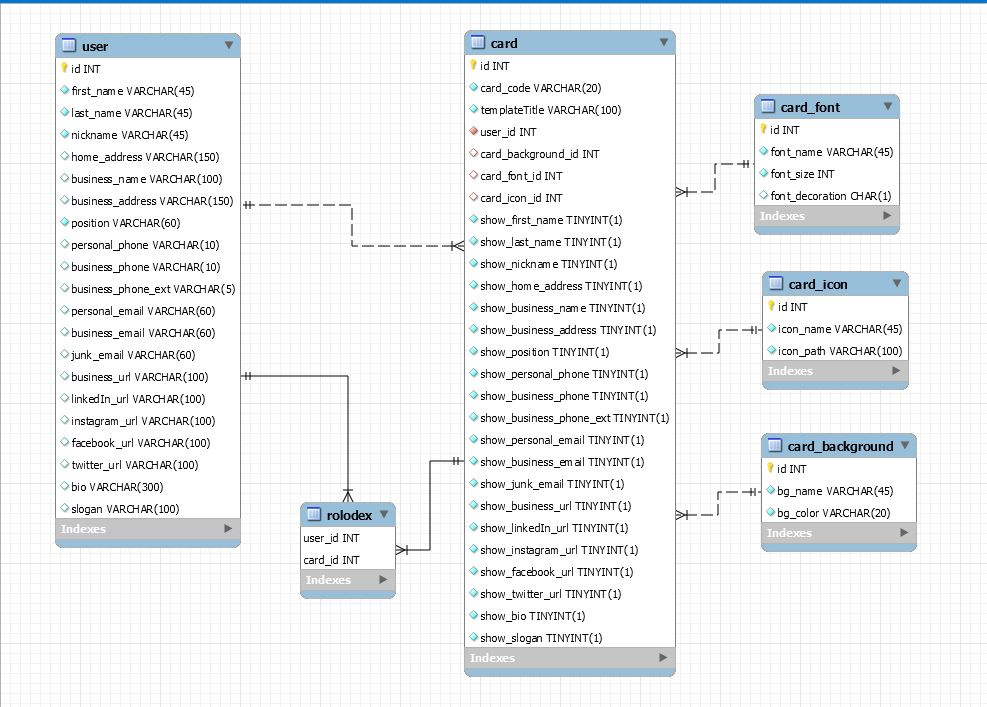
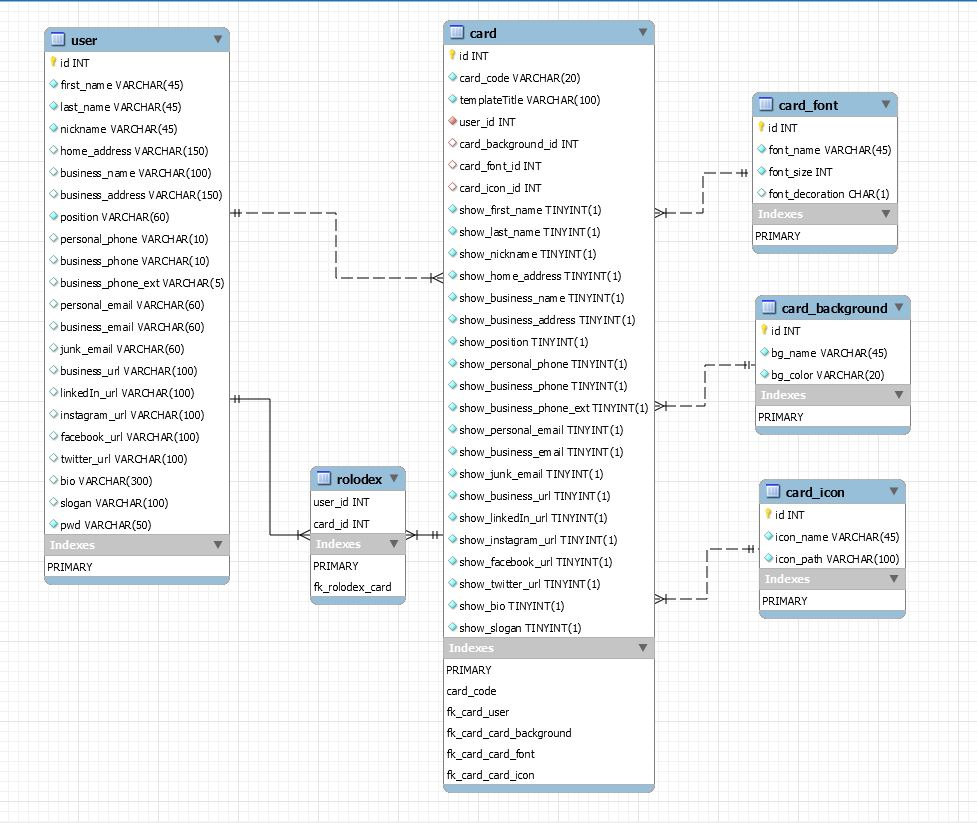
Iinitial setup for USER model and APIs. The first get route for users is done. Changed some NOT NULL constraints in the schema for user table and added pwd column to user table.

Changed region(s): [[0.0, 0.0, 1.0, 0.9646], [0.3378, 0.2801, 0.3685, 0.3423]]

diff --git a/models/User.js b/models/User.js
@@ -1,0 +1,132 @@
+const { Model, DataTypes } = require('sequelize');
+const sequelize = require('../config/connection');
+const bcrypt = require('bcrypt');
+
+// create our User model
+class User extends Model {
+  checkPassword(loginPw) {
+    return bcrypt.compareSync(loginPw, this.password);
+  }
+}
+
+// define table columns and configuration
+User.init(
+  {
+    id: {
+        type: DataTypes.INTEGER,
+        allowNull: false,
+        primaryKey: true,
+        autoIncrement: true
+    },
+    first_name: {
+        type: DataTypes.STRING,
+        allowNull: false
+    },
+    last_name: {
+        type: DataTypes.STRING,
+        allowNull: false
+    },
+    nickname: {
+        type: DataTypes.STRING
+    },
+    home_address: {
+        type: DataTypes.STRING
+    },
+    business_name: {
+        type: DataTypes.STRING
+    },
+    business_address: {
+        type: DataTypes.STRING
+    },
+    position: {
+        type: DataTypes.STRING
+    },
+    personal_phone: {
+        type: DataTypes.STRING,
+      },
+    business_phone: {
+        type: DataTypes.STRING
+    },
+    business_phone_ext: {
+        type: DataTypes.STRING
+    },
+    personal_email: {
+        type: DataTypes.STRING,
+        allowNull: false,
+        unique: true,
+        validate: {
+          isEmail: true
+        }
+    },
+    business_email: {
+        type: DataTypes.STRING,
+        validate: {
+            isEmail: true
+        }
+    },
+    junk_email: {
+        type: DataTypes.STRING,
+        validate: {
+            isEmail: true
+          }
+    },
+    business_url: {
+        type: DataTypes.STRING,
+        validate: {isUrl : true}
+    },
+    linkedin_url: {
+        type: DataTypes.STRING,
+        validate: {isUrl : true}
+    },
+    instagram_url: {
+        type: DataTypes.STRING,
+        validate: {isUrl : true}
+    },
+    facebook_url: {
+        type: DataTypes.STRING,
+        validate: {isUrl : true}
+    },
+    twitter_url: {
+        type: DataTypes.STRING,
+        validate: {isUrl : true}
+    },
+    bio: {
+        type: DataTypes.STRING
+    },
+    slogan: {
+        type: DataTypes.STRING
+    },
+    pwd: {
+        type: DataTypes.STRING,
+        allowNull: false,
+        validate: {
+          len: [6]
+        }
+    }
+  },
+  {
+    // TABLE CONFIGURATION OPTIONS GO HERE (https://sequelize.org/v5/manual/models-definition.html#configuration))
+    hooks: {
+      async beforeCreate(newUserData) {
+        newUserData.password = await bcrypt.hash(newUserData.password, 10);
+        return newUserData;
+      },
+      async beforeUpdate(updatedUserData) {
+        updatedUserData.password = await bcrypt.hash(updatedUserData.password, 10);
+        return updatedUserData;
+      }
+    },
+    // pass in our imported sequelize connection (the direct connection to our database)
+    sequelize,
+    // don't automatically create createdAt/updatedAt timestamp fields
+    timestamps: false,
+    // don't pluralize name of database table
+    freezeTableName: true,
+    // use underscores instead of camel-casing (i.e. `comment_text` and not `commentText`)
+    underscored: true,
+    // make it so our model name stays lowercase in the database
+    modelName: 'user'
+  }
+);
+
+module.exports = User;

diff --git a/controllers/api/user-routes.js b/controllers/api/user-routes.js
@@ -1,0 +1,41 @@
+const router = require('express').Router();
+const { User } = require('../../models');
+
+// GET /api/users
+router.get('/', (req, res) => {
+    User.findAll({
+        attributes: { exclude: ['password'] }
+      })
+      .then(dbUserData => res.json(dbUserData))
+      .catch(err => {
+        console.log(err);
+        res.status(500).json(err);
+      });
+});
+
+// POST /api/users
+/* router.post('/',  (req, res) => {
+    // expects {username: 'Lernantino', email: 'lernantino@gmail.com', password: 'password1234'}
+    User.create({
+      username: req.body.username,
+      email: req.body.email,
+      password: req.body.password
+    })
+      .then(dbUserData => {
+        req.session.save(() => {
+          req.session.user_id = dbUserData.id;
+          req.session.username = dbUserData.username;
+          req.session.loggedIn = true;
+    
+          res.json(dbUserData);
+        });
+      })
+      .catch(err => {
+        console.log(err);
+        res.status(500).json(err);
+      });
+ });
+
+ */
+
+module.exports = router;

diff --git a/controllers/index.js b/controllers/index.js
@@ -2,10 +2,12 @@ const router = require('express').Router();
 const homeRoutes = require('./home-routes.js');
 const dashboardRoutes = require('./dashboard-routes.js');
 const cardRoutes = require('./card-routes.js');
+const apiRoutes = require('./api');
 
-router.use('/', homeRoutes);
+router.use('/api', apiRoutes);
 router.use('/dashboard', dashboardRoutes);
 router.use('/card', cardRoutes);
+router.use('/', homeRoutes);
 
 router.use((req, res) => {
     res.status(404).end();

diff --git a/server.js b/server.js
@@ -20,6 +20,6 @@ app.set('view engine', 'handlebars');
 app.use(routes);
 
 // Turn on connection to db and server
-//sequelize.sync({ force: false }).then(() => {
+sequelize.sync({ force: false }).then(() => {
     app.listen(PORT, () => console.log('Now listening'));
-//});
+});

diff --git a/config/connection.js b/config/connection.js
@@ -1,6 +1,8 @@
 // Import Sequelize constructor from the library
 const Sequelize = require('sequelize');
 
+require('dotenv').config();
+
 // Create connection to database, pass in your MySQL info through .env
 let sequelize;
 

diff --git a/controllers/api/index.js b/controllers/api/index.js
@@ -1,0 +1,7 @@
+const router = require('express').Router();
+
+const userRoutes = require('./user-routes.js');
+
+router.use('/users', userRoutes);
+
+module.exports = router;

diff --git a/models/index.js b/models/index.js
@@ -1,0 +1,3 @@
+const User = require('./User');
+
+module.exports = { User };
